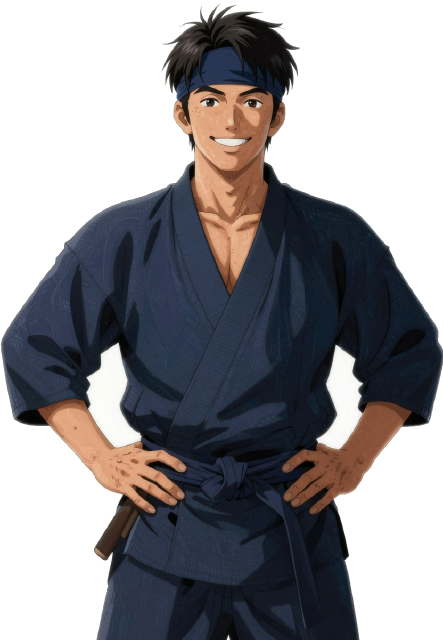
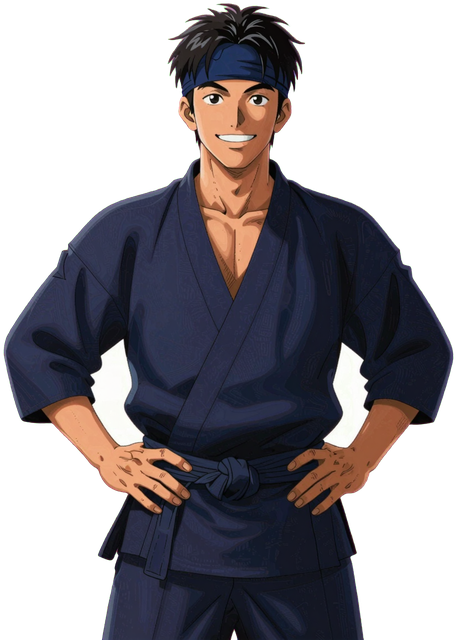
2.75.1 人物の絵（看板娘・練兵所の男・商人・師範・豪商・村長・壺振り・胴元）を派手な単色の背景（マゼンタか緑）で描き直し、色で背景を抜いて白い背景の残りをなくす

diff --git a/js/config.js b/js/config.js
@@ -1,6 +1,6 @@
 // 基本設定（数値はここで調整）
 window.SGK = window.SGK || {};
-SGK.VERSION = '2.75.0'; // 上げるときは index.html の <meta name="sgk-ver"> も同じ値に
+SGK.VERSION = '2.75.1'; // 上げるときは index.html の <meta name="sgk-ver"> も同じ値に
 SGK.SAVE_SCHEMA = 7; // セーブデータの形式番号（形式を変えたら上げて、save.js の migrate に変換を書く）
 SGK.CFG = {
   MIN_PER_SEC: 15,      // 現実1秒 = ゲーム内15分（1日 = 96秒）

diff --git a/index.html b/index.html
@@ -3,7 +3,7 @@
 <head>
 <meta charset="utf-8">
 <meta name="viewport" content="width=device-width,initial-scale=1,maximum-scale=1,user-scalable=no">
-<meta name="sgk-ver" content="2.75.0">
+<meta name="sgk-ver" content="2.75.1">
 <title>天下往来</title>
 <style>
   :root { --ink:#efe6cc; --panel:rgba(24,20,15,.88); --line:#8a7448; --gold:#f2c14e; }

diff --git a/tools/vivid_redo.py b/tools/vivid_redo.py
@@ -1,0 +1,144 @@
+"""2.68.4 人物の絵を「派手な単色の背景（マゼンタか緑）」で描き直して、色で背景を抜く（白い背景だと白い服・白い所が残ったり透けたりしたため）。
+使い方: python tools/vivid_redo.py 作業フォルダ [名前 ...] [--denoise 0.5] [--seed N]
+・名前は下の ITEMS のキー（town/w_kyo_a など）。省くと全員。
+・今の絵（切り抜き済み）を背景色の上に置き、ComfyUI（Z-Image Turbo）の img2img で絵ごと描き直す（背景は単色にさせる）。
+・背景色は服の色とぶつからない方（マゼンタ／緑）を絵の色から自動で選ぶ。
+・作業フォルダに 名前_raw.png（描き直した絵）と 名前.png（切り抜き、高さ640）を作る。assets へのコピーは --apply。
+"""
+import os, sys, json, uuid, io, shutil, urllib.request
+import numpy as np
+from PIL import Image
+sys.path.insert(0, os.path.dirname(os.path.abspath(__file__)))
+import gen_creature_art as G
+from gen_cute import KINDS, CHAR
+
+ROOT = os.path.join(os.path.dirname(os.path.abspath(__file__)), "..", "assets")
+TOWNS = ["tsushima", "shinagawa", "tsuruga", "yamaguchi", "sakata", "utazu", "sakai", "kyo", "niigata", "hakata"]
+ITEMS = {f"town/w_{t}_a": ("w_tsushima2" if t == "tsushima" else "w_" + t) for t in TOWNS}
+ITEMS.update({f"town/rp_{t}": "c_rp" + t for t in TOWNS})
+ITEMS.update({"town/merchant_p": "c_merchant", "town/drill_p": "c_drill", "town/gosho_p": "c_gosho",
+              "town/soncho_p": "c_soncho", "gamble/dealer2_p": "c_dealer", "gamble/boss4": "c_boss3"})
+BGS = {"magenta": ((255, 0, 255), "solid flat vivid magenta"), "green": ((0, 255, 0), "solid flat vivid chroma key green")}
+STYLE = ("hand drawn japanese TV anime cel illustration, same pose, same clothes, same face shape and age, "
+         "clean uniform black lineart, flat cel shading, simple flat colors, natural adult face drawn simply, matte skin, "
+         "no glow, no rim light, the character stands in front of a {bg} background that fills the whole picture evenly, "
+         "the background is one single flat {bg} color with nothing else in it")
+CW, CH = 896, 1216
+
+
+def pick_bg(im):
+    """服の色に近い方を避ける：マゼンタ寄り（赤紫・桃）の画素と緑寄りの画素を数える"""
+    a = np.asarray(im.convert("RGBA")).astype(np.float32) / 255
+    rgb, al = a[..., :3], a[..., 3]
+    hsv = np.asarray(im.convert("RGB").convert("HSV")).astype(np.float32)
+    h, s = hsv[..., 0] * 360 / 255, hsv[..., 1] / 255
+    m = (al > 0.5) & (s > 0.25)
+    mag = (m & (h > 260) & (h < 345)).sum()
+    grn = (m & (h > 75) & (h < 165)).sum()
+    return "green" if mag > grn else "magenta"
+
+
+def compose(im, col):
+    """今の絵を背景色の画布に置く（下はそろえる＝膝下で切れたまま）"""
+    k = (CH - 48) / im.height
+    if im.width * k > CW - 32: k = (CW - 32) / im.width
+    fig = im.resize((max(1, round(im.width * k)), max(1, round(im.height * k))), Image.LANCZOS)
+    can = Image.new("RGBA", (CW, CH), col + (255,))
+    can.alpha_composite(fig, ((CW - fig.width) // 2, CH - fig.height))
+    return can.convert("RGB")
+
+
+def upload(img):
+    b = "----sgk" + uuid.uuid4().hex; buf = io.BytesIO(); img.save(buf, "PNG")
+    name = "sgk_vivid_" + uuid.uuid4().hex[:8] + ".png"
+    body = (f"--{b}\r\nContent-Disposition: form-data; name=\"image\"; filename=\"{name}\"\r\nContent-Type: image/png\r\n\r\n").encode() + buf.getvalue() + f"\r\n--{b}\r\nContent-Disposition: form-data; name=\"overwrite\"\r\n\r\ntrue\r\n--{b}--\r\n".encode()
+    r = urllib.request.Request(G.COMFY + "/upload/image", data=body, headers={"Content-Type": "multipart/form-data; boundary=" + b})
+    return json.loads(urllib.request.urlopen(r, timeout=60).read())["name"]
+
+
+def key_alpha(rgb, bgname):
+    """背景色らしさ（0〜1）。マゼンタなら R・B が高く G が低い、緑なら G が高く R・B が低い"""
+    r, g, b = rgb[..., 0], rgb[..., 1], rgb[..., 2]
+    k = (np.minimum(r, b) - g) if bgname == "magenta" else (g - np.maximum(r, b))
+    return np.clip((k - 0.18) / 0.30, 0, 1)  # 1＝背景
+
+
+def flood(mask):
+    """外のふちとつながった所だけ True（中の小さな色かぶりは抜かない）"""
+    from collections import deque
+    H, W = mask.shape; out = np.zeros_like(mask); dq = deque()
+    for y in range(H):
+        for x in (0, W - 1):
+            if mask[y, x] and not out[y, x]: out[y, x] = True; dq.append((y, x))
+    for x in range(W):
+        for y in (0, H - 1):
+            if mask[y, x] and not out[y, x]: out[y, x] = True; dq.append((y, x))
+    while dq:
+        y, x = dq.popleft()
+        for yy, xx in ((y - 1, x), (y + 1, x), (y, x - 1), (y, x + 1)):
+            if 0 <= yy < H and 0 <= xx < W and mask[yy, xx] and not out[yy, xx]:
+                out[yy, xx] = True; dq.append((yy, xx))
+    return out
+
+
+def cut(raw, bgname):
+    rgb = np.asarray(raw.convert("RGB")).astype(np.float32) / 255
+    bgc = np.array(BGS[bgname][0], np.float32) / 255
+    kb = key_alpha(rgb, bgname)
+    outside = flood(kb > 0.05)
+    # 背景とつながった所の近く（3px）だけを半透明にしてよい所とする
+    near = outside.copy()
+    for _ in range(3):
+        n = near.copy(); n[1:] |= near[:-1]; n[:-1] |= near[1:]; n[:, 1:] |= near[:, :-1]; n[:, :-1] |= near[:, 1:]; near = n
+    al = np.where(near, 1 - kb, 1.0)
+    al = np.where(outside & (kb > 0.95), 0.0, al)
+    # 背景色の混ざりを取り除く（ふちの色かぶり）
+    q = np.clip(al, 1e-3, 1)[..., None]
+    un = np.clip((rgb - (1 - q) * bgc) / q, 0, 1)
+    rgb = np.where((near & (al < 0.999))[..., None], un, rgb)
+    # ふちに残る色かぶりを抑える
+    r, g, b = rgb[..., 0], rgb[..., 1], rgb[..., 2]
+    if bgname == "magenta":
+        # R・B の両方が G より高い（マゼンタ寄り）ときだけ、低い方を G の近くまで下げる
+        lim = g + 0.06; sp = near & (np.minimum(r, b) > lim)
+        rgb = np.stack([np.where(sp & (r <= b), lim, r), g, np.where(sp & (b < r), lim, b)], -1)
+    else:
+        lim = np.maximum(r, b) + 0.06; sp = near & (g > lim)
+        rgb = np.stack([r, np.where(sp, lim, g), b], -1)
+    out = np.dstack([rgb, al[..., None]])
+    im = Image.fromarray((out * 255 + 0.5).astype(np.uint8), "RGBA")
+    bb = im.getchannel("A").point(lambda v: 255 if v > 25 else 0).getbbox()
+    if bb: im = im.crop((max(0, bb[0] - 6), max(0, bb[1] - 6), min(im.width, bb[2] + 6), min(im.height, bb[3] + 6)))
+    k = 640 / im.height
+    return im.resize((max(1, round(im.width * k)), 640), Image.LANCZOS)
+
+
+def main():
+    a = sys.argv[1:]; den, seed, apply = 0.5, 2684, False
+    if "--denoise" in a: i = a.index("--denoise"); den = float(a[i + 1]); del a[i:i + 2]
+    if "--seed" in a: i = a.index("--seed"); seed = int(a[i + 1]); del a[i:i + 2]
+    if "--apply" in a: a.remove("--apply"); apply = True
+    out, names = a[0], (a[1:] or list(ITEMS)); os.makedirs(out, exist_ok=True)
+    unet, clip, vae = G.names()
+    for nm in names:
+        flat = nm.replace("/", "__")
+        rawp, cutp = os.path.join(out, flat + "_raw.png"), os.path.join(out, flat + ".png")
+        src = Image.open(os.path.join(ROOT, nm + ".png")).convert("RGBA")
+        bgname = pick_bg(src); col, word = BGS[bgname]
+        if not os.path.exists(rawp):
+            desc = KINDS[ITEMS[nm]][0].replace(CHAR, "")
+            wf = G.workflow(desc + ". " + STYLE.format(bg=word), seed, unet, clip, vae, CW, CH)
+            wf["11"] = {"class_type": "LoadImage", "inputs": {"image": upload(compose(src, col))}}
+            wf["7"] = {"class_type": "VAEEncode", "inputs": {"pixels": ["11", 0], "vae": ["3", 0]}}
+            wf["8"]["inputs"]["denoise"] = den
+            with open(rawp, "xb") as f: f.write(G.run(wf))
+            print("drew:", nm, bgname, flush=True)
+        if not os.path.exists(cutp):
+            cut(Image.open(rawp), bgname).save(cutp)
+            print("cut:", cutp, flush=True)
+        if apply:
+            shutil.copyfile(cutp, os.path.join(ROOT, nm + ".png")); print("applied:", nm)
+
+
+if __name__ == "__main__":
+    main()
